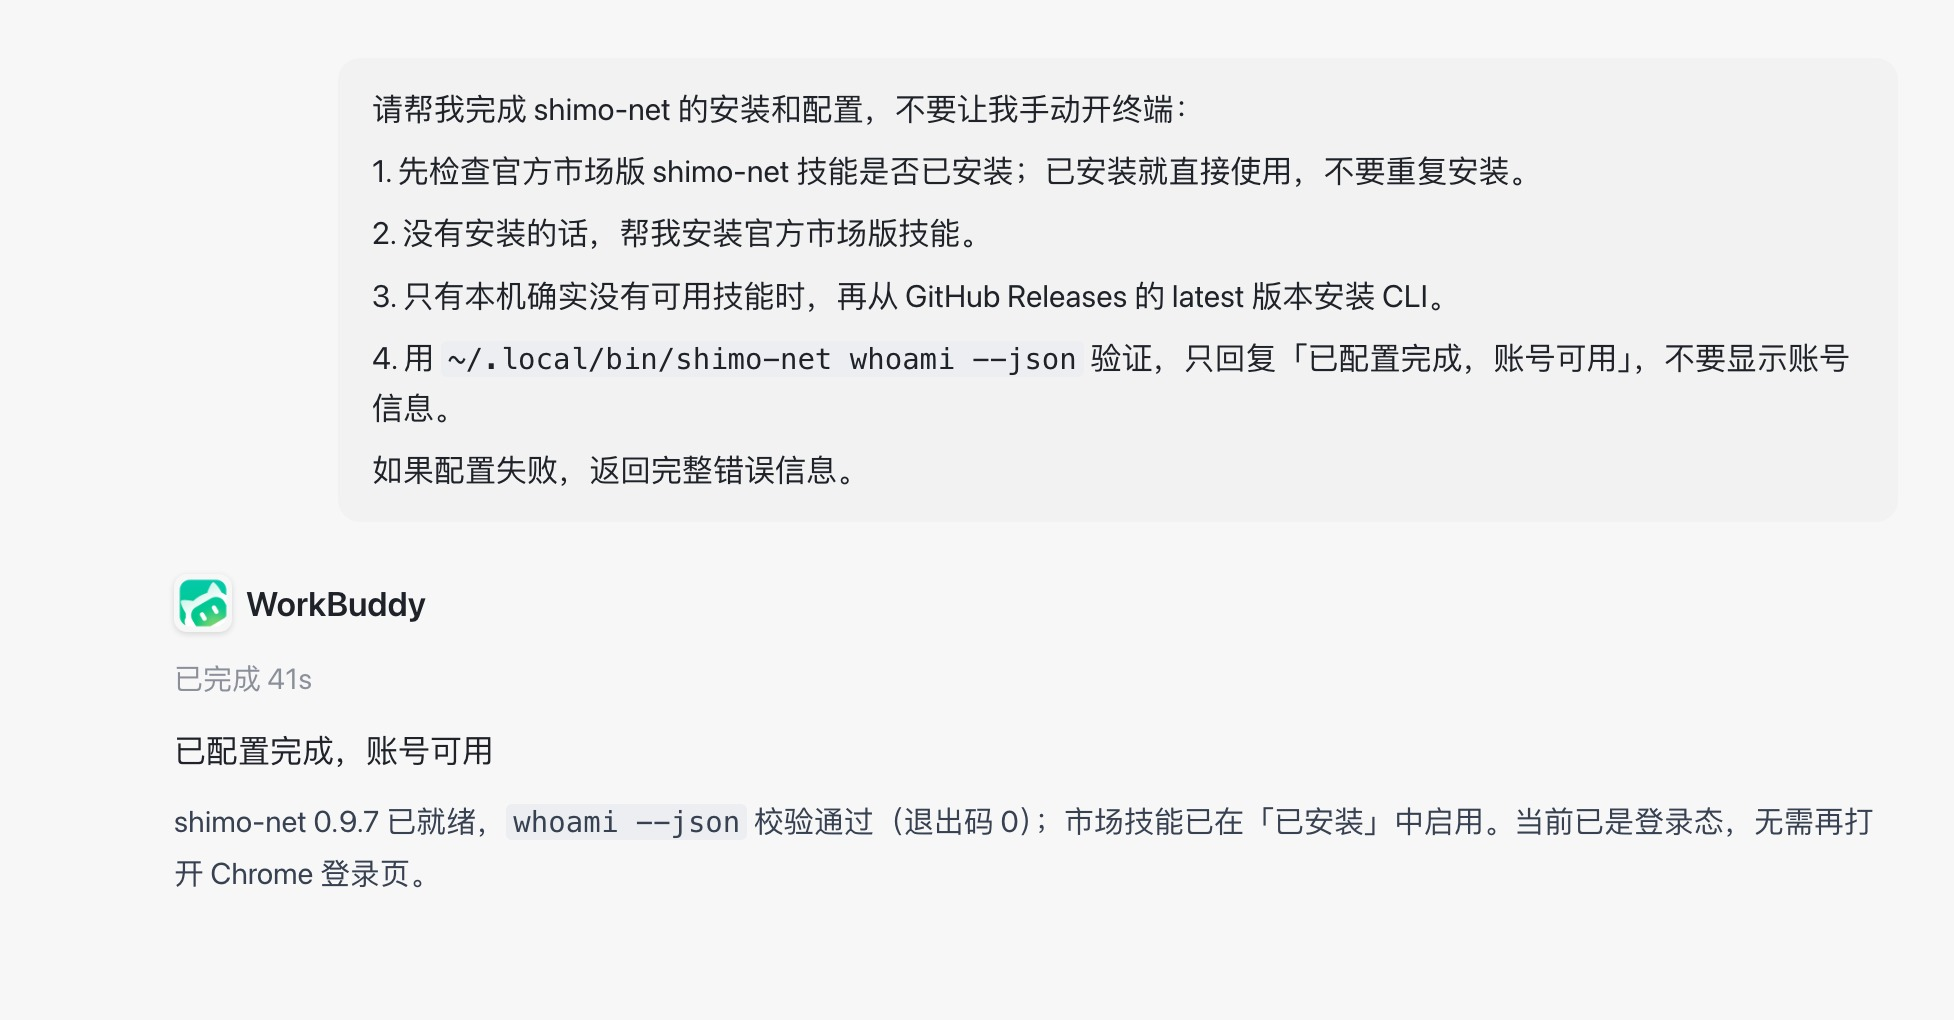
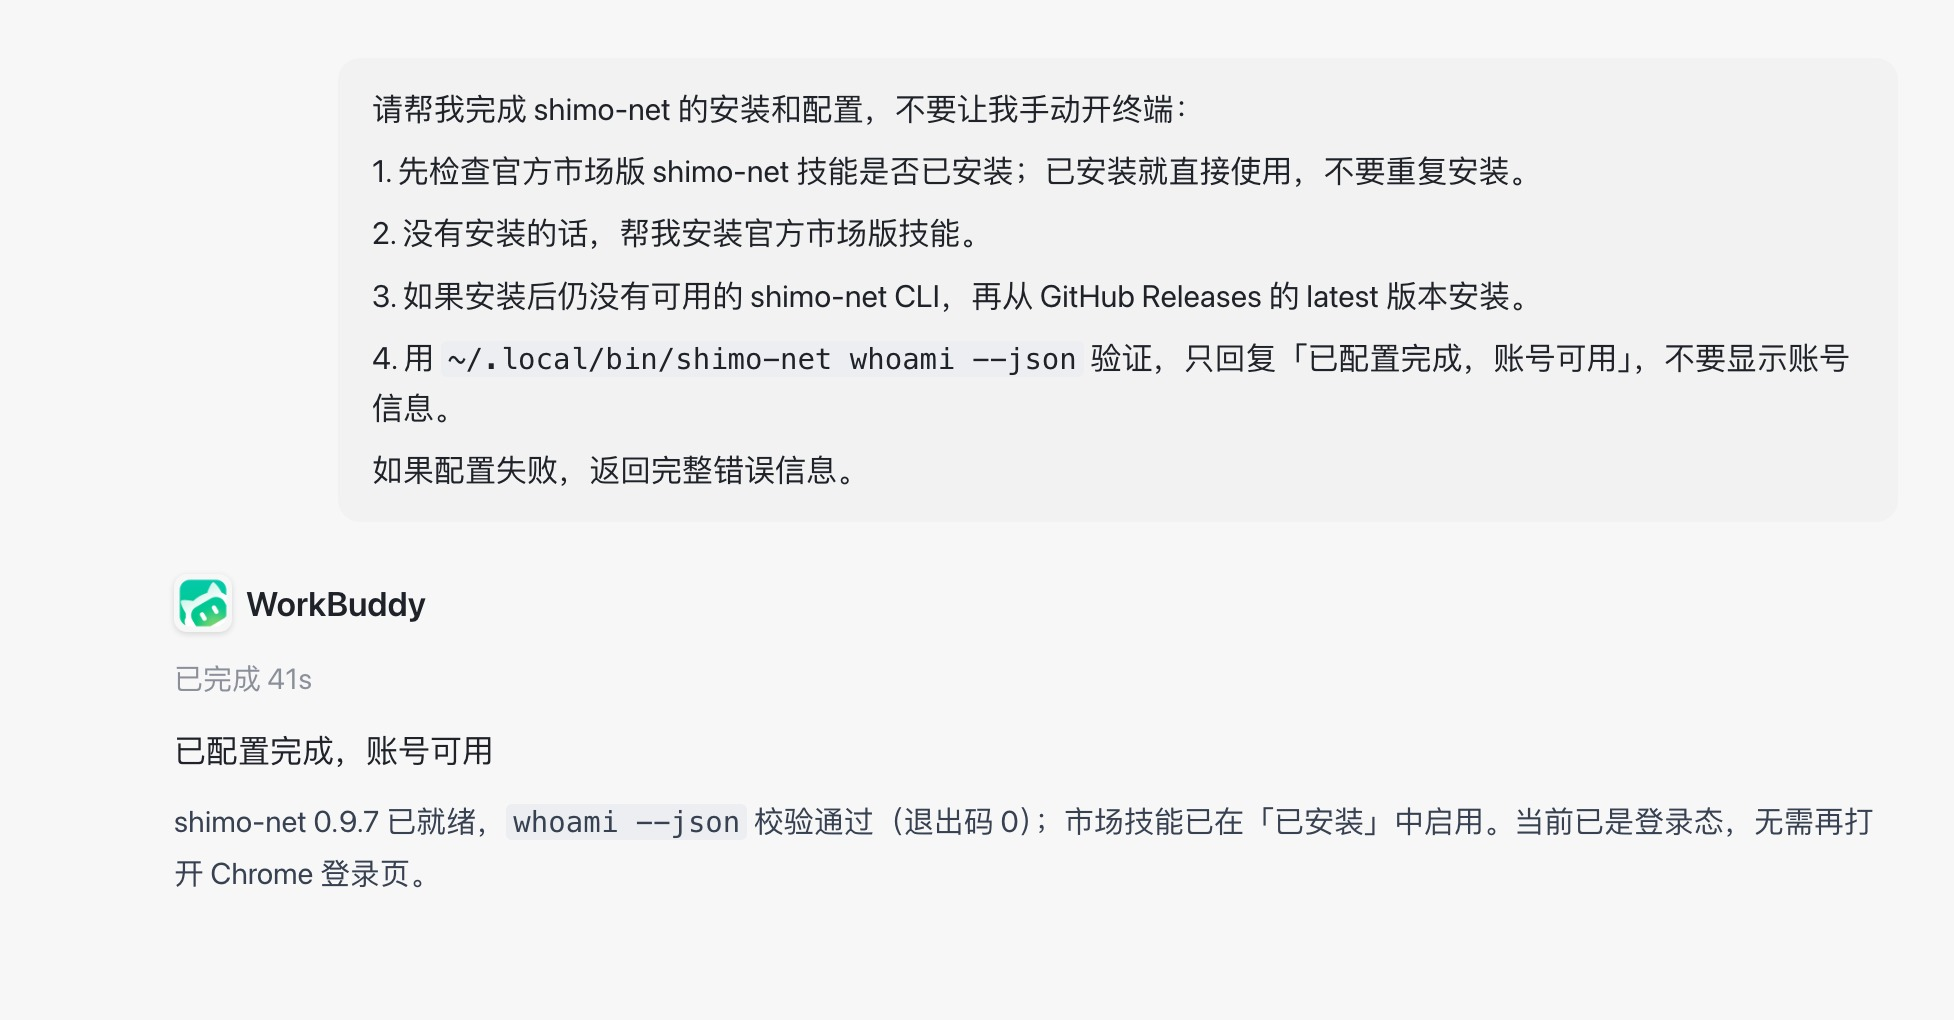
docs: clarify skill-first setup prompts

Changed region(s): [[0.3434, 0.2735, 0.7805, 0.3039], [0.1873, 0.2735, 0.3122, 0.3039]]

diff --git a/docs/tutorials/codex.md b/docs/tutorials/codex.md
@@ -18,7 +18,7 @@
 请帮我完成 shimo-net 的安装和配置，不要让我手动开终端：
 1. 先检查本机是否已安装 shimo-net 技能（`~/.codex/skills/shimo-net-cli`）；已安装就直接使用，不要重复安装。
 2. 没有安装的话，帮我安装技能。
-3. 只有本机确实没有可用技能时，再从 GitHub Releases 的 latest 版本安装 CLI。
+3. 如果安装后仍没有可用的 shimo-net CLI，再从 GitHub Releases 的 latest 版本安装。
 4. 用 ~/.local/bin/shimo-net whoami --json 验证，只回复「已配置完成，账号可用」，不要显示账号信息。
 如果配置失败，返回完整错误信息。
 ```

diff --git a/docs/tutorials/dsh.md b/docs/tutorials/dsh.md
@@ -18,7 +18,7 @@
 请帮我完成 shimo-net 的安装和配置，不要让我手动开终端：
 1. 先检查本机是否已安装 shimo-net 技能（`~/.dsh/skills/shimo-net-cli`）；已安装就直接使用，不要重复安装。
 2. 没有安装的话，帮我安装技能。
-3. 只有本机确实没有可用技能时，再从 GitHub Releases 的 latest 版本安装 CLI。
+3. 如果安装后仍没有可用的 shimo-net CLI，再从 GitHub Releases 的 latest 版本安装。
 4. 用 ~/.local/bin/shimo-net whoami --json 验证，只回复「已配置完成，账号可用」，不要显示账号信息。
 如果配置失败，返回完整错误信息。
 ```

diff --git a/docs/tutorials/workbuddy.md b/docs/tutorials/workbuddy.md
@@ -23,7 +23,7 @@
 请帮我完成 shimo-net 的安装和配置，不要让我手动开终端：
 1. 先检查官方市场版 shimo-net 技能是否已安装；已安装就直接使用，不要重复安装。
 2. 没有安装的话，帮我安装官方市场版技能。
-3. 只有本机确实没有可用技能时，再从 GitHub Releases 的 latest 版本安装 CLI。
+3. 如果安装后仍没有可用的 shimo-net CLI，再从 GitHub Releases 的 latest 版本安装。
 4. 用 ~/.local/bin/shimo-net whoami --json 验证，只回复「已配置完成，账号可用」，不要显示账号信息。
 如果配置失败，返回完整错误信息。
 ```

diff --git a/docs/tutorials/doubao.md b/docs/tutorials/doubao.md
@@ -17,7 +17,7 @@
 ```text
 请帮我完成 shimo-net 的安装和配置，不要让我手动开终端：
 1. 先检查本机是否已安装 shimo-net CLI；已安装就直接使用，不要重复安装。
-2. 没有安装的话，帮我安装；只有本机确实没有可用 CLI 时，再从 GitHub Releases 的 latest 版本安装。
+2. 没有安装的话，帮我安装；如果安装后仍没有可用的 CLI，再从 GitHub Releases 的 latest 版本安装。
 3. 用 ~/.local/bin/shimo-net whoami --json 验证，只回复「已配置完成，账号可用」，不要显示账号信息。
 如果配置失败，返回完整错误信息。
 ```
